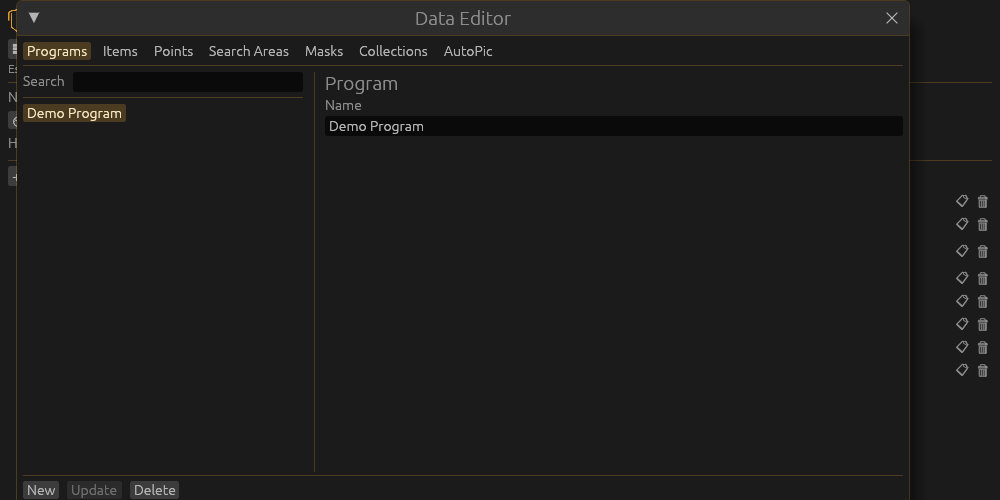
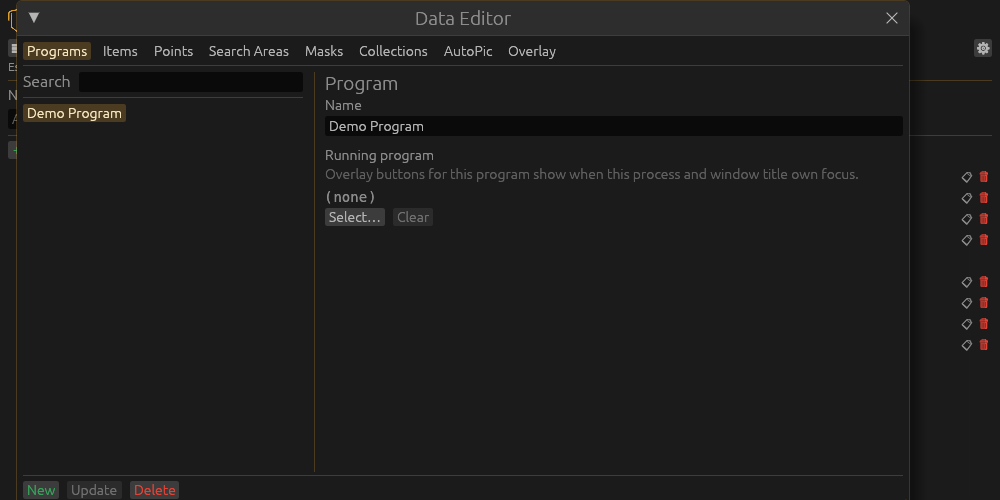
Pin docs harness UI scale to 1.0 and refresh screenshot goldens.
Default product scale 1.7 broke egui_kittest pointer hits and drifted README PNGs; keep for_docs() at 1.0 PPP for stable AccessKit clicks and goldens.

diff --git a/crates/sqyre-app/src/app_docs.rs b/crates/sqyre-app/src/app_docs.rs
@@ -29,7 +29,11 @@ use std::sync::Arc;
 
 impl SqyreApp {
     pub fn for_docs() -> Self {
-        let settings = UserSettings::default();
+        let mut settings = UserSettings::default();
+        // Keep docs/screenshot/kittest harnesses at 1.0 PPP. Product default scale
+        // may be higher for desktop readability, but AccessKit pointer clicks and
+        // golden PNGs assume unscaled coordinates.
+        settings.ui_scale = 1.0;
         SettingsUi::apply_action_colors(&settings);
 
         let hotkeys: Box<dyn HotkeyService> = Box::new(NullHotkeys::default());